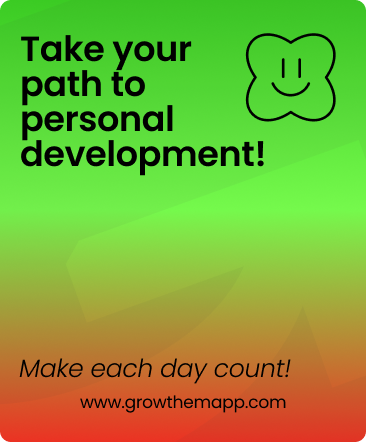
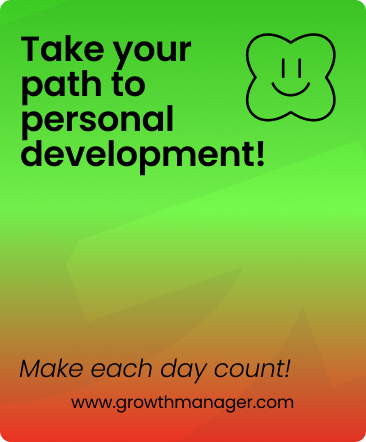
publicidad y titulo

Changed region(s): [[0.1803, 0.8824, 0.8115, 0.9412]]

diff --git a/frontend/src/style/LeftSite.module.css b/frontend/src/style/LeftSite.module.css
@@ -128,14 +128,20 @@
   background-color: #272726;
   margin-top: 1rem;
   margin-left: 1rem;
+
 }
 
 .viewMode button {
   background: none;
   border: none;
   color: var(--color-text);
-  max-width: 90px;
-  padding: 0.5rem 1rem;
+  max-width: 85px;
+  padding: 0.2rem 0.5rem;
+    font-family: 'poppins';
+  font-size: 0.7rem;
+  font-weight: 500;
+  line-height: 0.7rem;
+  cursor: pointer;
 
 }
 

diff --git a/frontend/src/components/Add.jsx b/frontend/src/components/Add.jsx
@@ -147,7 +147,7 @@ function Add({ onMovementAdded, movementToEdit, only }) {
       
       <div className={style.containerAllForm}>
         {/* --- Formulario de Ingreso --- */}
-    {!only || only === 'ingreso' ? (
+    {(!only || only === 'ingreso') && (!isEditing || movementToEdit.tipo === 'ingreso') &&(
     <form className={style.formone} onSubmit={(e) => handleSubmit(e, "ingreso")}> 
       <InputMonto  className={style.inputMonto}  value={ingresoMonto} onChange={setIngresoMonto} disabled={isEditing && movementToEdit.tipo === 'egreso'} />
       <div className={style.containerBtn}>
@@ -161,10 +161,10 @@ function Add({ onMovementAdded, movementToEdit, only }) {
         </button>
       </div>
     </form>
-    ) : null}
+    ) }
 
         {/* --- Formulario de Egreso --- */}
-    {!only || only === 'egreso' ? (
+    {(!only || only === 'egreso' ) &&  (!isEditing || movementToEdit.tipo === 'egreso') && (
     <form className={style.formtwo} onSubmit={(e) => handleSubmit(e, "egreso")}> 
       <InputMonto className={style.inputMonto} value={egresoMonto} onChange={setEgresoMonto} disabled={isEditing && movementToEdit.tipo === 'ingreso'} />
       <div className={style.containerBtn}>
@@ -178,7 +178,7 @@ function Add({ onMovementAdded, movementToEdit, only }) {
         </button>
       </div>
     </form>
-    ) : null}
+    ) }
       </div>
       {isEditing && (
           <div className={style.cancelContainer}>

diff --git a/frontend/public/index.html b/frontend/public/index.html
@@ -24,7 +24,7 @@
       work correctly both with client-side routing and a non-root public URL.
       Learn how to configure a non-root public URL by running `npm run build`.
     -->
-    <title>Growth Expense</title>
+    <title>Growth Manager</title>
   </head>
   <body>
     <noscript>You need to enable JavaScript to run this app.</noscript>

diff --git a/frontend/src/components/LeftsSite.jsx b/frontend/src/components/LeftsSite.jsx
@@ -63,6 +63,7 @@ function LeftSite({ token, refreshKey }) {
       .filter((m) => m.tipo === "ingreso")
       .reduce((acc, cur) => acc + Number(cur.monto), 0);
 
+      
     const egreso = data
       .filter((m) => m.tipo === "egreso")
       .reduce((acc, cur) => acc + Number(cur.monto), 0);